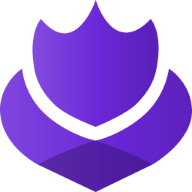
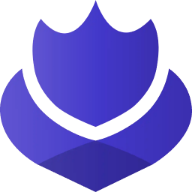
Change Color Hue

diff --git a/tailwind.config.js b/tailwind.config.js
@@ -1,14 +1,22 @@
 /** @type {import('tailwindcss').Config} */
 import colors from 'tailwindcss/colors';
+import defaultTheme from 'tailwindcss/defaultTheme';
 
 export default {
   content: ['./src/**/*.{html,js,svelte,ts}'],
   theme: {
     extend: {
       colors: {
-        primary: colors.violet,
+        primary: colors.indigo,
         neutral: colors.slate,
+        success: colors.green,
+        info: colors.yellow,
+        alert: colors.red,
+        alt: colors.teal,
       },
+    },
+    fontFamily: {
+      sans: ['Inter', ...defaultTheme.fontFamily.sans],
     },
   },
   plugins: [],

diff --git a/README.md b/README.md
@@ -1,7 +1,9 @@
+<p align="center">
 <picture>
   <source media="(prefers-color-scheme: dark)" srcset="./src/lib/dark-logo.svg">
-  <img alt="ShadowSelf" src="./src/lib/light-logo.svg">
+  <img alt="ShadowSelf" src="./src/lib/light-logo.svg" width="75%">
 </picture>
+</p>
 
 ## ShadowSelf Overview
 

diff --git a/CHANGELOG.md b/CHANGELOG.md
@@ -14,7 +14,7 @@ and this project adheres to [Semantic Versioning](https://semver.org/spec/v2.0.0
 
 ### Changed
 
-- Change fonts
+- Change font to 'Inter'
 - Modify logo & favicon
 - Restructure the 'static' directory
 
